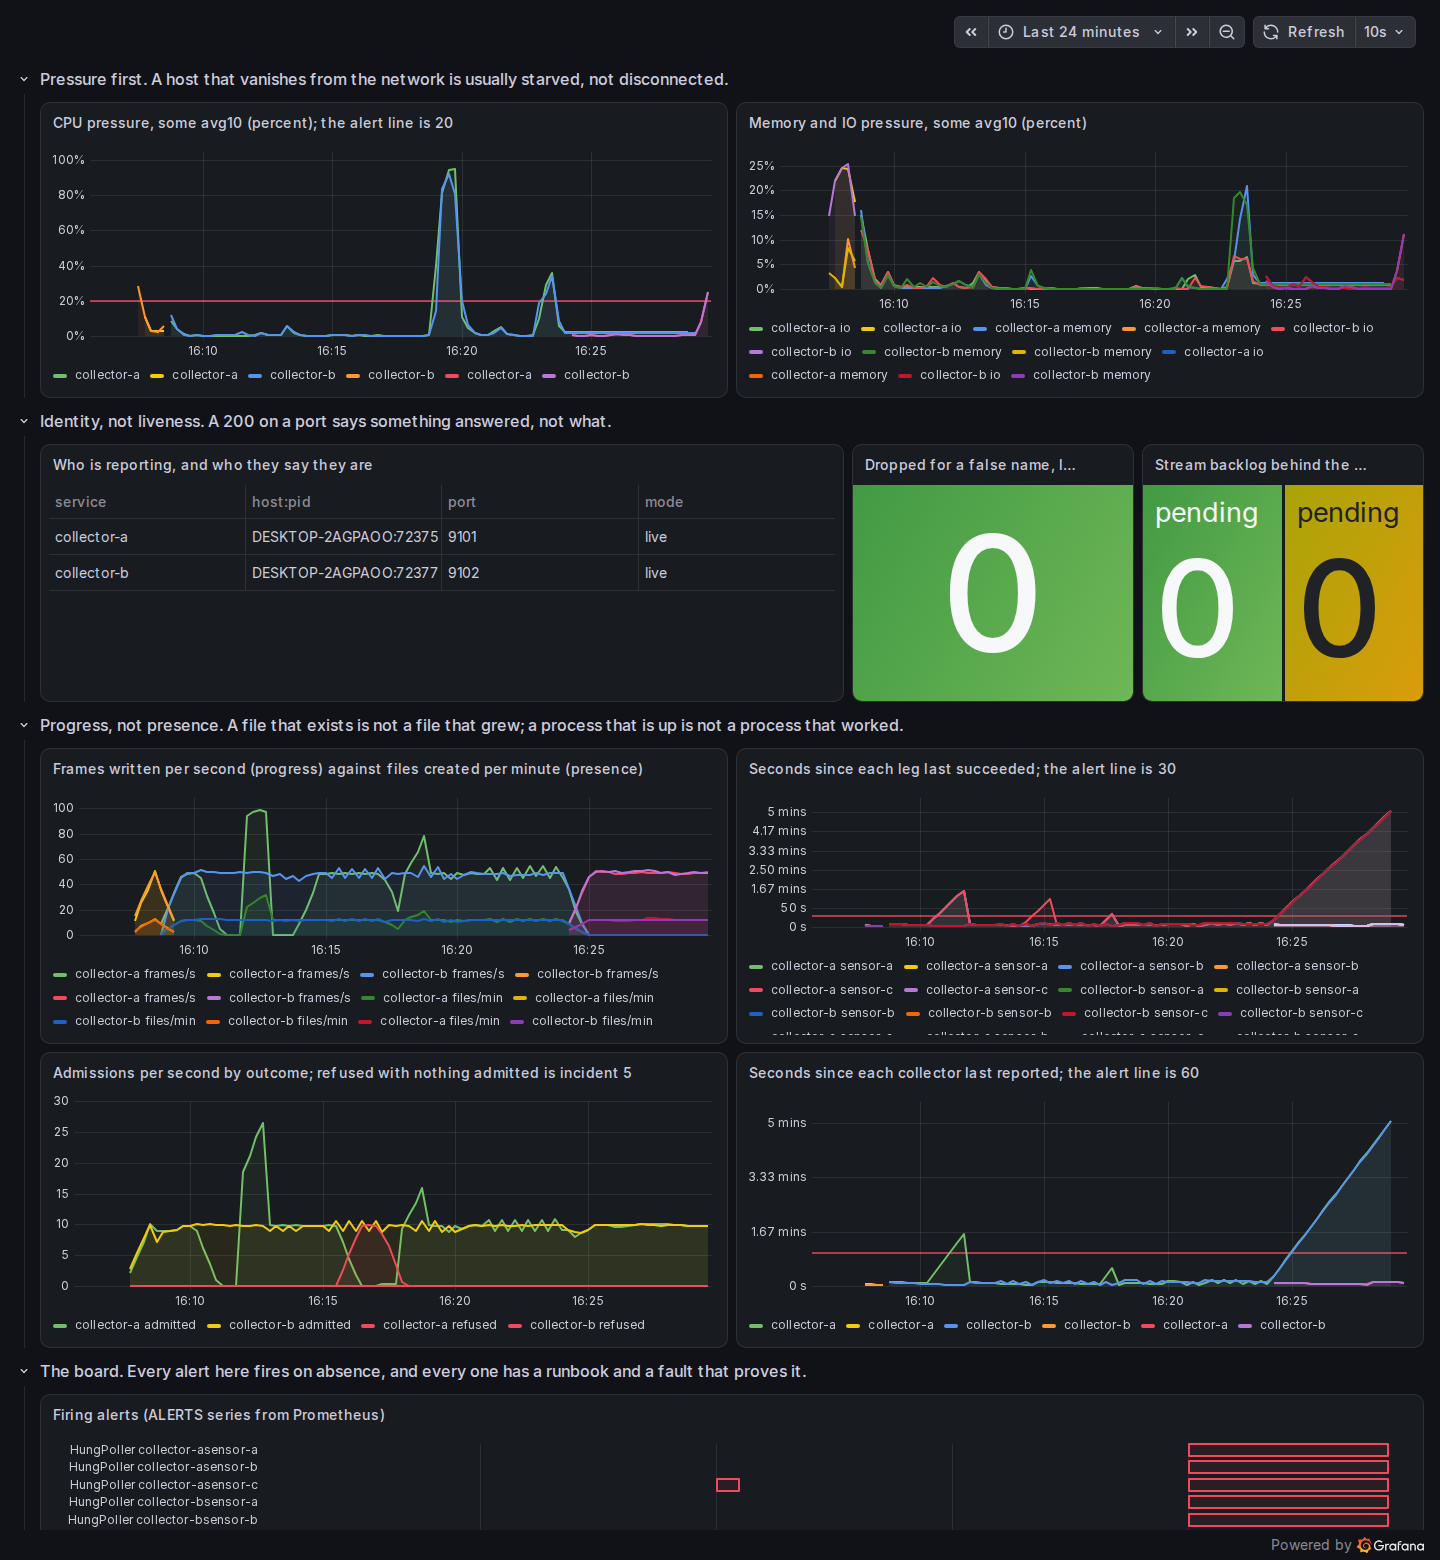
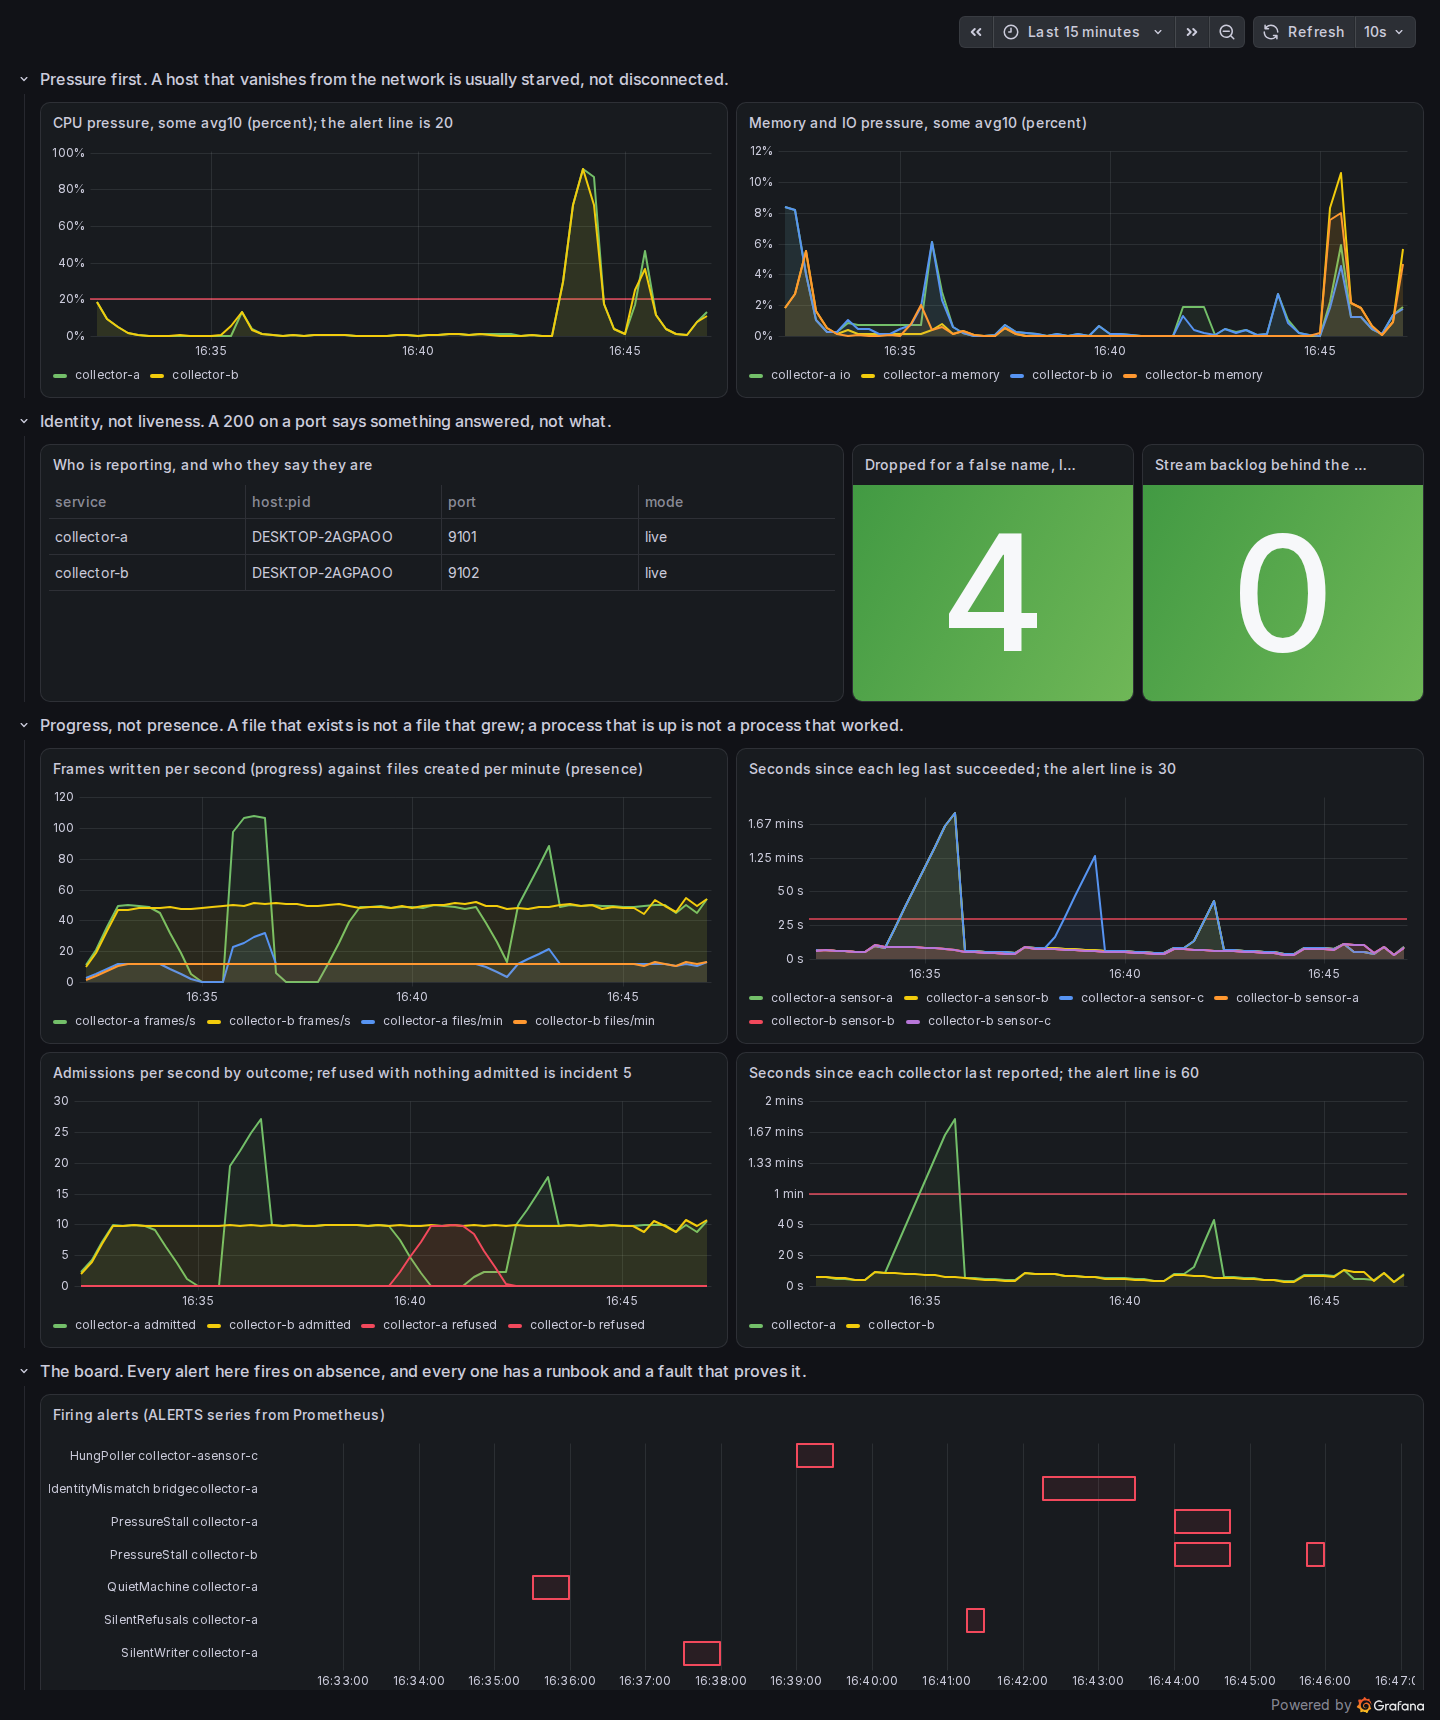
second proof run on the fixed stack, front page screenshot, rounded mismatch stat

diff --git a/grafana/build_dashboard.py b/grafana/build_dashboard.py
@@ -51,7 +51,7 @@ panel("table", "Who is reporting, and who they say they are",
                                                       "renameByName": {"service_name": "service", "service_instance_id": "host:pid"},
                                                       "indexByName": {"service_name": 0, "service_instance_id": 1, "pid": 2, "port": 3, "mode": 4, "fault": 5}}}])
 panel("stat", "Dropped for a false name, last 5 minutes",
-      [('sum(increase(qm_bridge_identity_mismatch_total[5m])) or vector(0)', "last 5m", {})], 14, 10, 5, 7,
+      [('round(sum(increase(qm_bridge_identity_mismatch_total[5m])) or vector(0))', "last 5m", {})], 14, 10, 5, 7,
       fieldConfig=fc(thresholds=[(1, "red")]), options={"colorMode": "background", "graphMode": "none", "reduceOptions": {"calcs": ["lastNotNull"]}})
 panel("stat", "Stream backlog behind the bridge",
       [('qm_bridge_stream_pending', "pending", {})], 19, 10, 5, 7,

diff --git a/README.md b/README.md
@@ -77,20 +77,20 @@ runbook has no alert, or an alert is neither fault-proven nor unit-tested.
 ## Proof
 
 <!-- proof-table -->
-**Proof run, 2026-08-29 16:10 CEST (bare binaries on a 4-core WSL2 host).**
+**Proof run, 2026-08-29 16:37 CEST (bare binaries on a 4-core WSL2 host).**
 
 Prometheus 3.14.0. Six faults injected on collector-a in turn; every figure below is measured by tools/prove.py.
 
 | fault | alert | fired after | other alerts while it fired | resolved after clear | reached the receiver |
 |---|---|---|---|---|---|
-| mute | QuietMachine | 87s | none | 11s | firing and resolved |
-| silent-writer | SilentWriter | 99s | none | 10s | firing and resolved |
-| hung-poller | HungPoller | 60s | none | 17s | firing and resolved |
-| refusals | SilentRefusals | 91s | none | 6s | firing and resolved |
-| identity | IdentityMismatch | 31s | none | 56s | firing and resolved |
-| pressure | PressureStall (informational) | 35s | none | 31s | firing and resolved |
+| mute | QuietMachine | 93s | none | 19s | firing and resolved |
+| silent-writer | SilentWriter | 97s | none | 16s | firing and resolved |
+| hung-poller | HungPoller | 62s | none | 21s | firing and resolved |
+| refusals | SilentRefusals | 97s | none | 14s | firing and resolved |
+| identity | IdentityMismatch | 38s | none | 66s | firing and resolved |
+| pressure | PressureStall (informational) | 32s | none | 29s | firing only |
 
-Ledger lines at the end of the run: 13. Verdict: PASS.
+Ledger lines at the end of the run: 12. Verdict: PASS.
 <!-- /proof-table -->
 
 ![the front page during a proof run](proof/front-page.png)

diff --git a/proof/RESULTS.md b/proof/RESULTS.md
@@ -1,14 +1,14 @@
-**Proof run, 2026-08-29 16:10 CEST (bare binaries on a 4-core WSL2 host).**
+**Proof run, 2026-08-29 16:37 CEST (bare binaries on a 4-core WSL2 host).**
 
 Prometheus 3.14.0. Six faults injected on collector-a in turn; every figure below is measured by tools/prove.py.
 
 | fault | alert | fired after | other alerts while it fired | resolved after clear | reached the receiver |
 |---|---|---|---|---|---|
-| mute | QuietMachine | 87s | none | 11s | firing and resolved |
-| silent-writer | SilentWriter | 99s | none | 10s | firing and resolved |
-| hung-poller | HungPoller | 60s | none | 17s | firing and resolved |
-| refusals | SilentRefusals | 91s | none | 6s | firing and resolved |
-| identity | IdentityMismatch | 31s | none | 56s | firing and resolved |
-| pressure | PressureStall (informational) | 35s | none | 31s | firing and resolved |
+| mute | QuietMachine | 93s | none | 19s | firing and resolved |
+| silent-writer | SilentWriter | 97s | none | 16s | firing and resolved |
+| hung-poller | HungPoller | 62s | none | 21s | firing and resolved |
+| refusals | SilentRefusals | 97s | none | 14s | firing and resolved |
+| identity | IdentityMismatch | 38s | none | 66s | firing and resolved |
+| pressure | PressureStall (informational) | 32s | none | 29s | firing only |
 
-Ledger lines at the end of the run: 13. Verdict: PASS.
+Ledger lines at the end of the run: 12. Verdict: PASS.
